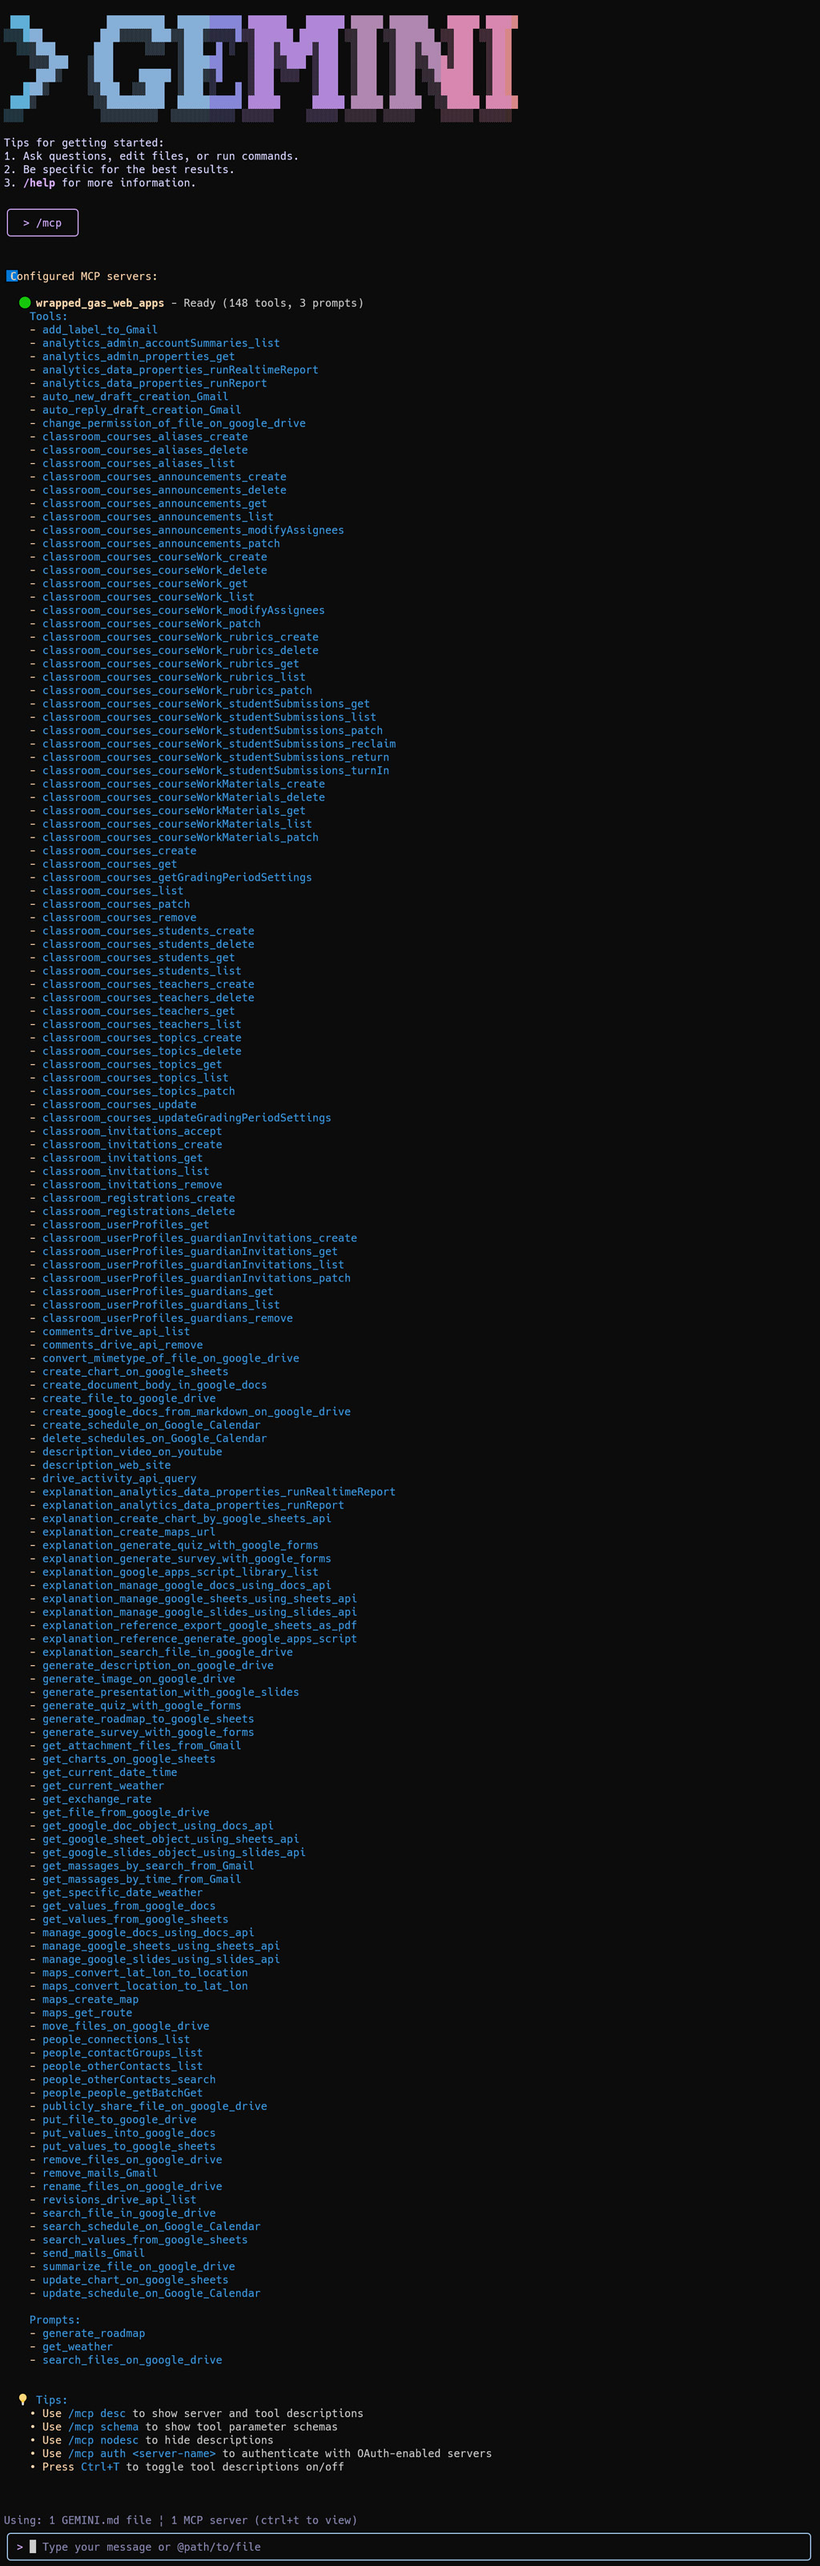
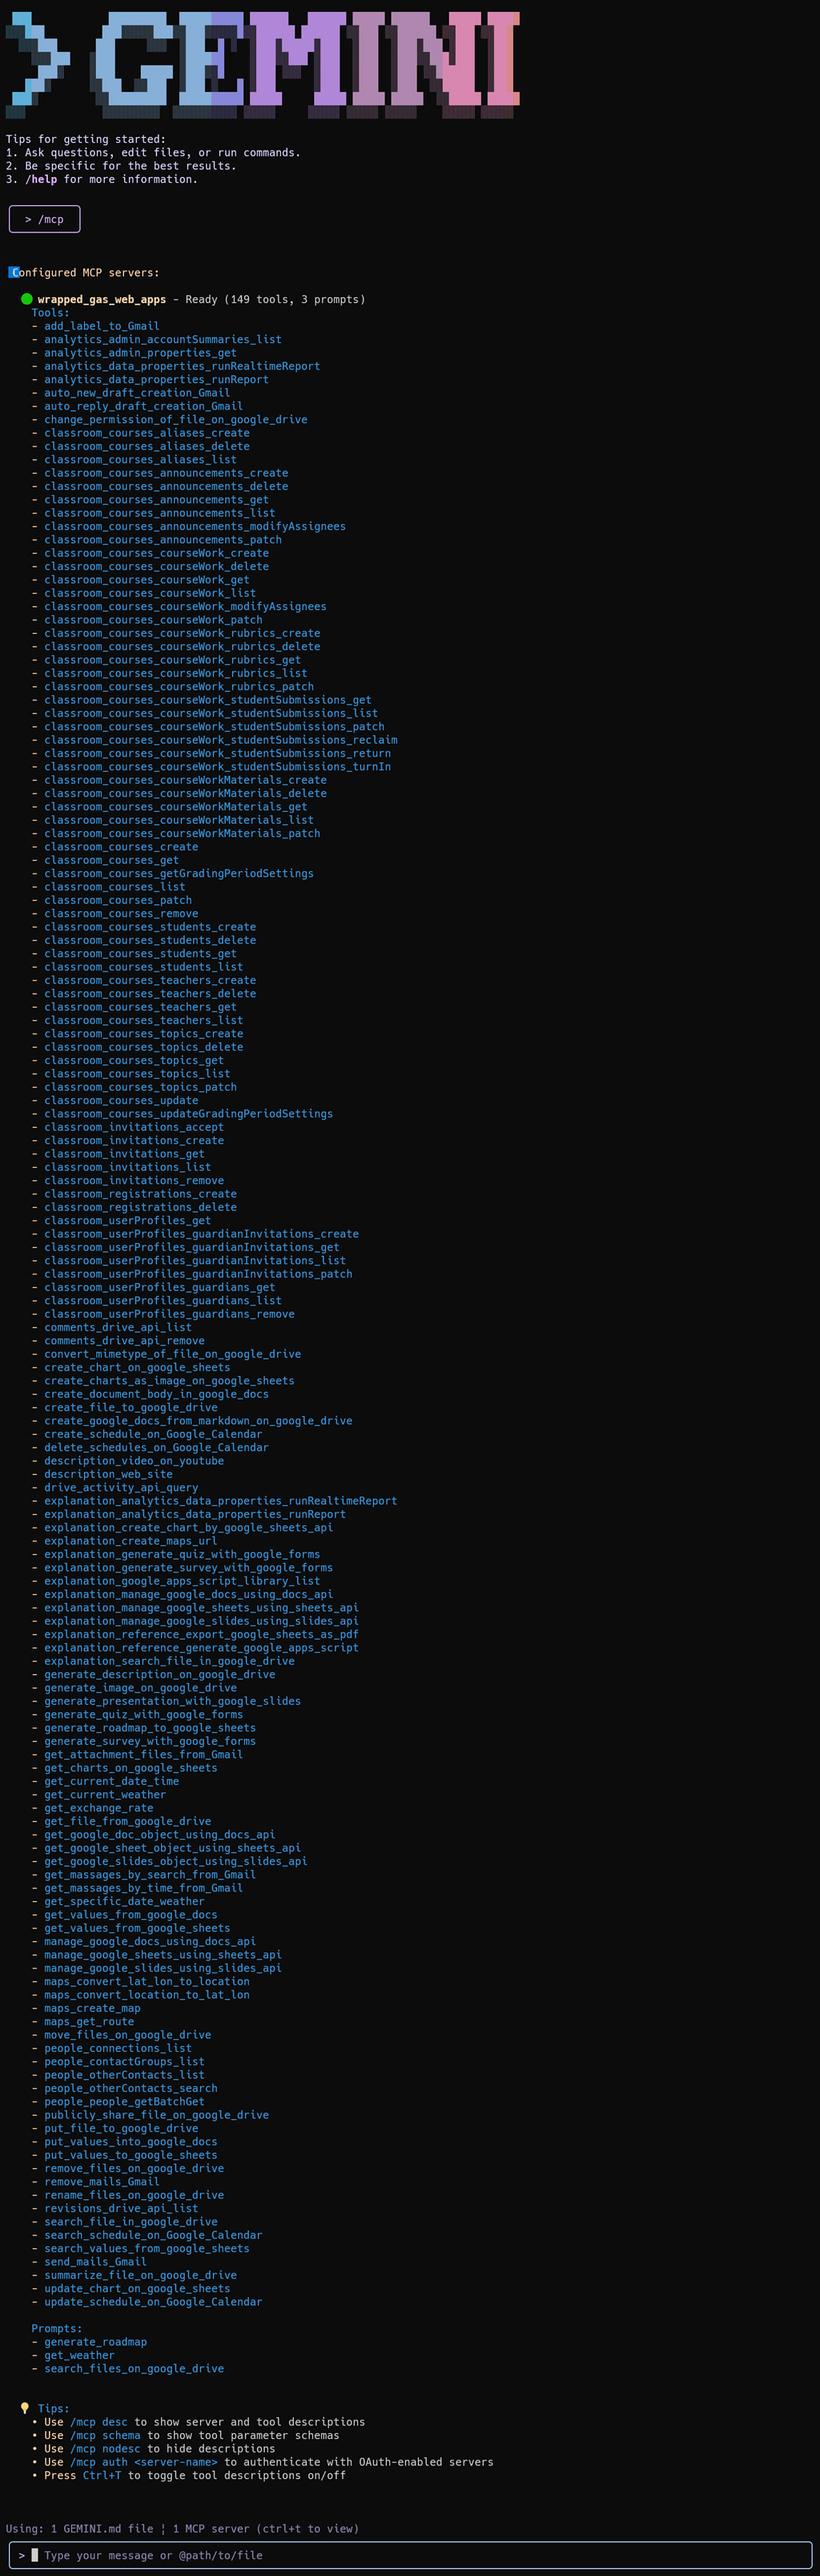
Updated to v1.0.37

Changed region(s): [[0.0, 0.0, 0.625, 0.9994], [0.3438, 0.406, 0.4062, 0.4372]]

diff --git a/management_sheets.js b/management_sheets.js
@@ -1,6 +1,6 @@
 /**
  * Management of Google Sheets
- * Updated on 20250924 10:50
+ * Updated on 20250924 14:39
  */
 
 /**
@@ -180,10 +180,12 @@ function get_charts_on_google_sheets(object = {}) {
       result = { content: [{ type: "text", text: "Set the spreadsheet ID." }], isError: true };
     } else {
       const ss = SpreadsheetApp.openById(spreadsheetId);
-      const charts = ss.getSheets().reduce((o, s) => {
-        o[s.getSheetName()] = s.getCharts().map(c => ({ chartId: c.get.getChartId(), chartTitle: c.getOptions().get("title") || "No title" }));
-        return o;
-      }, {});
+      const charts = ss.getSheets().reduce((ar, s) => {
+        s.getCharts().forEach(c =>
+          ar.push({ sheetName: s.getSheetName(), sheetId: s.getSheetId(), chartId: c.getChartId(), chartTitle: c.getOptions().get("title") || "No title" })
+        );
+        return ar;
+      }, []);
       result = { content: [{ type: "text", text: JSON.stringify(charts) }], isError: false };
     }
   } catch ({ stack }) {
@@ -226,6 +228,47 @@ function update_chart_on_google_sheets(object = {}) {
   const requestBody = { requests: [{ updateChartSpec: object.requestBody.chart }] };
   return for_google_apis.update({ func: Sheets.Spreadsheets.batchUpdate, args: [requestBody, object.pathParameters?.spreadsheetId] });
 }
+
+/**
+ * This function create charts as image files.
+ * @private
+ */
+function create_charts_as_image_on_google_sheets(object = {}) {
+  const { spreadsheetId = null, chartIds = [] } = object;
+  let result;
+  try {
+    if (!spreadsheetId || chartIds.length == 0) {
+      result = { content: [{ type: "text", text: "Set the spreadsheet ID and charts in an array." }], isError: true };
+    } else {
+      const temp = SlidesApp.create("temp slide");
+      const slide = temp.getSlides()[0];
+      const ss = SpreadsheetApp.openById(spreadsheetId);
+      const charts = ss.getSheets().reduce((o, s) => {
+        s.getCharts().forEach(cc => o[cc.getChartId()] = cc);
+        return o;
+      }, {});
+      const fileIds = chartIds.reduce((ar, id) => {
+        if (charts[id]) {
+          const blob = slide.insertSheetsChart(charts[id]).asImage().getBlob().copyBlob();
+          const fileId = DriveApp.createFile(blob.setName(id)).getId();
+          ar.push({ chartId: id, imageFileId: fileId });
+        }
+        return ar;
+      }, []);
+      DriveApp.getFileById(temp.getId()).setTrashed(true);
+      const text = [
+        `The image file IDs for each chart ID are as follows.`,
+        JSON.stringify(fileIds),
+      ].join("\n");
+      result = { content: [{ type: "text", text }], isError: false };
+    }
+  } catch ({ stack }) {
+    result = { content: [{ type: "text", text: stack }], isError: true };
+  }
+  console.log(result); // Check response.
+  return { jsonrpc: "2.0", result };
+}
+
 
 // Descriptions of the functions.
 const descriptions_management_sheets = {
@@ -409,6 +452,19 @@ const descriptions_management_sheets = {
         }
       },
       required: ["requestBody", "pathParameters"]
+    }
+  },
+
+  create_charts_as_image_on_google_sheets: {
+    title: "Create charts as image files",
+    description: `Use this to create charts on Google Sheets as the image files on Google Drive. Use this to convert charts on Google Sheets as the image files on Google Drive.`,
+    parameters: {
+      type: "object",
+      properties: {
+        spreadsheetId: { type: "string", description: "Spreadsheet ID of Google Sheets." },
+        chartIds: { type: "array", items: { type: "string", description: "Chart ID on Google Sheets." } },
+      },
+      required: ["spreadsheetId", "chartIds"]
     }
   },
 

diff --git a/Wrapper_for_reduce_load_time_of_MCP/tools.js b/Wrapper_for_reduce_load_time_of_MCP/tools.js
@@ -1570,6 +1570,22 @@ const tools_management_sheets = [
         body: object,
       }),
   },
+  {
+    name: "create_charts_as_image_on_google_sheets",
+    schema: {
+      description: `Use this to create charts on Google Sheets as the image files on Google Drive. Use this to convert charts on Google Sheets as the image files on Google Drive.`,
+      inputSchema: {
+        spreadsheetId: z.string().describe("Spreadsheet ID of Google Sheets."),
+        chartIds: z.array(z.string().describe("Chart ID on Google Sheets.")),
+      },
+    },
+    func: async (object = {}) =>
+      await request_({
+        name: "create_charts_as_image_on_google_sheets",
+        method: "tools/call",
+        body: object,
+      }),
+  },
 ];
 
 const tools_management_slides = [

diff --git a/main_library_side.js b/main_library_side.js
@@ -3,11 +3,11 @@
  * Author: Kanshi Tanaike
  * https://github.com/tanaikech/ToolsForMCPServer
  * 
- * Updated on 20250924 10:50
- * version 1.0.36
+ * Updated on 20250924 14:39
+ * version 1.0.37
  */
 
-const ToolsForMCPServerVersion = "1.0.36";
+const ToolsForMCPServerVersion = "1.0.37";
 const ProtocolVersion = "2025-06-18";
 const ServerName = "gas_web_apps";
 

diff --git a/README.md b/README.md
@@ -25,7 +25,7 @@ Building upon that foundation, this report aims to explore the expanded possibil
 
 # Current tools
 
-In the current stage (September 24, 2025), the following 148 tools are provided by [ToolsForMCPServer](https://github.com/tanaikech/ToolsForMCPServer) for the MCP server.
+In the current stage (September 24, 2025), the following 149 tools are provided by [ToolsForMCPServer](https://github.com/tanaikech/ToolsForMCPServer) for the MCP server.
 
 You can see the descriptions of all tools with the following command on Gemini CLI.
 
@@ -346,7 +346,7 @@ When your setting is correct, the following result is returned.
 ```text
 ℹConfigured MCP servers:
 
-  🟢 wrapped_gas_web_apps - Ready (148 tools, 3 prompts)
+  🟢 wrapped_gas_web_apps - Ready (149 tools, 3 prompts)
     Tools:
     - add_label_to_Gmail
     - analytics_admin_accountSummaries_list
@@ -427,6 +427,7 @@ When your setting is correct, the following result is returned.
     - comments_drive_api_remove
     - convert_mimetype_of_file_on_google_drive
     - create_chart_on_google_sheets
+    - create_charts_as_image_on_google_sheets
     - create_document_body_in_google_docs
     - create_file_to_google_drive
     - create_google_docs_from_markdown_on_google_drive
@@ -1651,5 +1652,11 @@ Run `$ gemini` again. You should observe a significantly faster startup. In my t
      - get_charts_on_google_sheets
      - create_chart_on_google_sheets
      - update_chart_on_google_sheets
+
+- v1.0.37 (September 24, 2025)
+
+  1. The following 1 tool was added.
+
+     - create_charts_as_image_on_google_sheets
 
 [TOP](#top)
